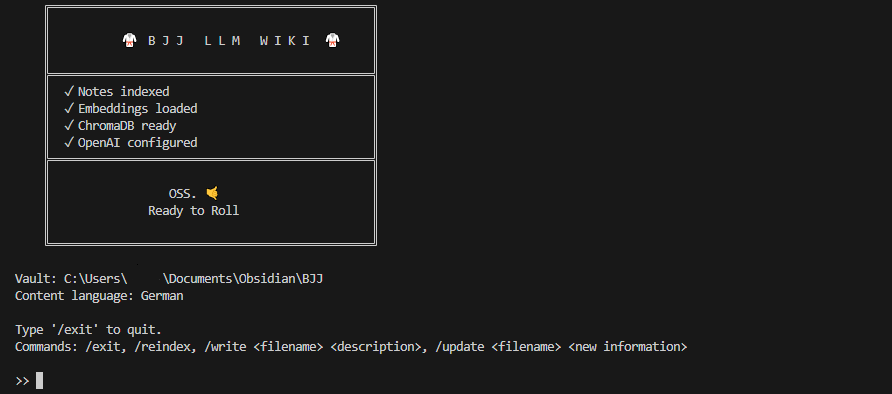
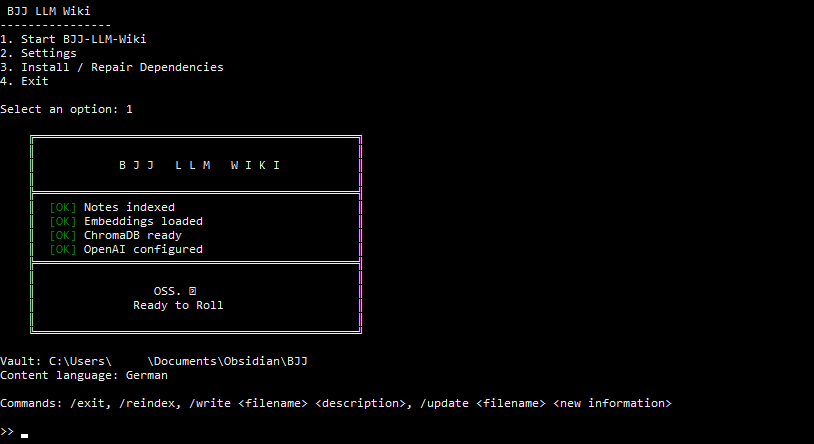
Updated Readme

Changed region(s): [[0.0, 0.0, 0.4607, 0.7614], [0.0, 0.7919, 0.8292, 0.9137], [0.0, 0.9442, 0.0614, 1.0]]

diff --git a/README.md b/README.md
@@ -25,15 +25,21 @@ BJJ LLM Wiki is designed to turn personal BJJ knowledge into a structured and se
 - Schema-based note updates and legacy note migration
 - Global terminology and Wiki-Linking rules
 - Canonical entity awareness using existing note titles
+- Duplicate detection before creating new notes
+- Normalized and fuzzy note-name matching
+- Deterministic validation of generated and updated notes
+- Automatic repair of known validation issues
+- LLM-assisted repair support for issues that cannot be handled deterministically
+- Safe multiline input for longer `/write` and `/update` descriptions
+- Preview and confirmation before notes are saved
 - Configurable descriptive content language
 - Configurable writer and classifier models
 - Hybrid RAG retrieval using semantic and title matching
-- Markdown/Obsidian as a portable source of truth
-- Preview and confirmation before notes are saved
-- Deterministic validation for generated and updated notes
-- CLI loading feedback during long-running LLM operations
+- Wiki-Link-aware RAG context expansion
+- Multi-stage CLI feedback during retrieval and LLM operations
 - Writer benchmark suite with deterministic regression checks
 - Provider-neutral LLM application layer
+- Markdown/Obsidian as a portable source of truth
 
 ---
 
@@ -92,8 +98,9 @@ Dependencies can also be repaired or reinstalled later through the launcher menu
 After setup, the launcher displays:
 
 ```text
-🥋 BJJ LLM Wiki
-----------------
+BJJ LLM Wiki
+------------
+
 1. Start BJJ-LLM-Wiki
 2. Settings
 3. Install / Repair Dependencies
@@ -111,36 +118,75 @@ When you exit the Wiki with `/exit`, you return to the launcher.
 | Command | Description |
 |---|---|
 | `<free text>` | Ask a question about your notes using RAG |
-| `/write <filename> <description>` | Create a structured note from user-provided BJJ knowledge |
-| `/update <filename> <new information>` | Merge new information into an existing note |
+| `/write <filename> [description]` | Create a structured note from user-provided BJJ knowledge |
+| `/update <filename> [new information]` | Merge new information into an existing note |
 | `/reindex` | Rebuild the vector index after manual vault changes |
 | `/exit` | Exit the Wiki and return to the launcher |
 
-Example:
+Short descriptions can still be supplied directly:
 
 ```text
 >> /write Rear-Naked-Choke Classic choke from back control. Wrap the arm around the neck, secure the grip and bring the elbows together.
 ```
 
-The generated note is shown as a preview before saving and must be confirmed by the user.
+For longer descriptions, omit the description from the command:
+
+```text
+>> /write Rear-Naked-Choke
+
+Describe the technique:
+Enter /done to finish or /cancel to cancel.
+
+> Start from Back-Mount with a Seatbelt.
+> The choking arm goes around the opponent's neck.
+> Secure the grip and finish by bringing the elbows together.
+> /done
+```
+
+The same multiline input is available for `/update`.
+
+Previously submitted lines are retained while entering multiline content, reducing the risk of losing an entire long description through accidental command-history navigation.
+
+Use:
+
+```text
+/done
+```
+
+to submit the multiline input, or:
+
+```text
+/cancel
+```
+
+to abort it.
+
+The generated note or update is shown as a preview before saving and must be confirmed by the user.
 
 ---
 
 ## How It Works
 
 ```text
-                         User Input
-                             │
-              ┌──────────────┴──────────────┐
-              │                             │
-         /write /update                  Question
-              │                             │
-              ▼                             ▼
-       Schema + Rules               Hybrid Retrieval
-       + Canonical Notes            Chroma + Titles
-              │                             │
-              ▼                             ▼
-          LLM Writer                  Grounded LLM
+                           User Input
+                               │
+              ┌────────────────┴────────────────┐
+              │                                 │
+        /write /update                       Question
+              │                                 │
+              ▼                                 ▼
+       Note Resolution                  Hybrid Retrieval
+    + Duplicate Matching              Semantic + Titles
+              │                                 │
+              ▼                                 ▼
+       Schema + Rules                    Wiki-Link
+     + Canonical Notes                    Expansion
+              │                                 │
+              ▼                                 ▼
+          LLM Writer                      Grounded LLM
+              │
+              ▼
+      Validation + Repair
               │
               ▼
         Markdown Vault
@@ -153,14 +199,19 @@ The generated note is shown as a preview before saving and must be confirmed by 
 
 `/write` turns user-provided BJJ knowledge into a structured Markdown note.
 
-The application:
+Before generation, existing note names are checked using normalized and fuzzy matching to reduce accidental duplicates.
 
-1. Classifies the input into a supported note type
-2. Loads the corresponding schema and global writing rules
-3. Provides existing note titles as canonical wiki entities
-4. Structures the supplied knowledge
-5. Validates the generated note against deterministic wiki rules
-6. Shows the generated note and validation warnings before saving it
+The application then:
+
+1. Checks the requested note name against existing notes
+2. Classifies the input into a supported note type
+3. Loads the corresponding schema and global writing rules
+4. Provides existing note titles as canonical wiki entities
+5. Structures the supplied knowledge
+6. Validates the generated note against deterministic wiki rules
+7. Repairs known validation issues where possible
+8. Revalidates the repaired note
+9. Shows the generated note and remaining validation warnings before saving it
 
 The writer currently supports:
 
@@ -188,9 +239,23 @@ Unsupported schema sections remain present as:
 
 `/update` works against an existing Markdown note.
 
+Note names are resolved before requesting long-form input. Normalized matching handles differences such as capitalization or hyphenation, while fuzzy matching can suggest an existing note when the supplied name contains a typo.
+
 Both the existing note and the new user input are treated as technical source material. Existing knowledge is preserved while new information is integrated into the appropriate sections.
 
 Updates use the current schema for the note type. This also allows older notes using legacy structures or headings to be migrated to the current schema while preserving their technical content.
+
+Generated updates pass through the same validation and repair pipeline before being presented to the user as a diff.
+
+### Validation and Repair
+
+Generated and updated notes are checked against deterministic wiki rules before being saved.
+
+Validation can detect known structural and Wiki-Linking problems, including forbidden generic links and invalid perspective-specific aliases.
+
+Known violations can be repaired deterministically and are then revalidated. The repair layer is separated from validation so additional repair strategies can be added without changing the writer or update workflows.
+
+The project also contains support for LLM-assisted repair for issues that cannot be resolved by deterministic rules.
 
 ### Wiki Links
 
@@ -198,20 +263,25 @@ Concrete BJJ entities are connected through Obsidian Wiki-Links:
 
 ```markdown
 [[Side-Control]]
+
 [[Mount]]
+
 [[Butterfly-Guard]]
+
 [[Armbar]]
 ```
 
 Existing note titles are supplied to the writer as canonical entities. Links to meaningful BJJ entities may also be created before the corresponding note exists, allowing the wiki to develop naturally over time.
 
+Generic classification or contextual words are not automatically treated as part of an entity name. At the same time, established technique names such as `[[Butterfly-Sweep]]` or `[[Single-Leg-Takedown]]` may legitimately contain their classification.
+
 Detailed linking and terminology behavior is defined in `app/schemas/global_rules.md`.
 
 ### Retrieval
 
-Questions are answered using hybrid retrieval.
+Questions are answered using hybrid retrieval with additional Wiki-Link-aware context expansion.
 
-**Semantic search** uses ChromaDB embeddings to find notes related to the question.
+**Semantic search** uses ChromaDB embeddings to find notes related to the meaning of the question.
 
 **Title matching** directly matches normalized note titles against the query. Matching is case- and hyphen-insensitive, so:
 
@@ -225,7 +295,13 @@ can be found from:
 side control
 ```
 
-Combining both approaches helps retrieve conceptually related notes while preventing short or sparsely written notes from being missed due to weak embeddings.
+Semantic relevance is evaluated independently from exact title matches so a direct title match does not suppress other semantically relevant notes.
+
+After the primary retrieval step, the application follows Wiki-Links from the retrieved notes and can include directly connected existing notes as additional context.
+
+For example, a question about attacks from `Side-Control` can retrieve the position itself while also providing linked submissions and related techniques to the answering LLM.
+
+The resulting context is passed to the LLM, which is instructed to answer only from the retrieved notes and state clearly when the knowledge base does not contain enough information.
 
 ---
 
@@ -240,39 +316,54 @@ CLI
 Services
  ├────► Repository ────► Markdown / Obsidian Vault
  ├────► LLM Layer ─────► LLM Provider
+ ├────► Validation / Repair
  └────► Vector Store ──► ChromaDB
 ```
 
-The main application structure is:
+The main project structure is:
 
 ```text
 LLM-BJJ-Wiki/
 │
 ├── app/
-│   ├── cli/            # Terminal interface
-│   ├── services/       # Application use cases
-│   ├── repositories/   # Markdown vault access
-│   ├── llm/            # Provider-neutral LLM access
-│   │   ├── openai/     # OpenAI implementation
-│   │   └── anthropic/  # Reserved for future provider support
-│   ├── vectorstore/    # ChromaDB and retrieval
-│   ├── schemas/        # Note schemas and global writing rules
-│   ├── config.py
-│   └── main.py
+│   ├── cli/                    # Terminal presentation layer
+│   │   ├── handlers/           # Command-specific CLI workflows
+│   │   ├── input/              # Safe multiline and interactive input
+│   │   └── output/             # Diff, validation, and status output
+│   │
+│   ├── llm/                    # Provider-neutral LLM access
+│   │   ├── openai/             # OpenAI implementation
+│   │   └── anthropic/          # Reserved for Anthropic support
+│   │
+│   ├── matching/               # Note-name normalization and fuzzy matching
+│   ├── repair/                 # Deterministic and LLM-assisted note repair
+│   ├── repositories/           # Markdown vault access
+│   ├── schemas/                # Note schemas and global writing rules
+│   ├── services/               # Application use cases
+│   ├── validation/             # Deterministic note validation
+│   │   └── lists/              # Validation rules and canonical mappings
+│   │
+│   └── vectorstore/            # ChromaDB, hybrid retrieval, and link expansion
 │
-├── example-vault/      # Empty example vault structure
-├── benchmarks/         # Writer regression benchmarks
-├── assets/
-├── .env.example
+├── assets/                     # README and project assets
+├── benchmarks/
+│   └── writer/                 # Writer regression and model benchmarks
+│
+├── example-vault/              # Example Obsidian vault structure
+├── tests/                      # Automated tests
+├── start.py                    # Setup and application launcher
 ├── requirements.txt
-├── start.py
-├── todo.md
+├── todo.md                     # Development roadmap
 └── README.md
 ```
 
 Services contain the application use cases while infrastructure-specific access is kept behind dedicated repository, LLM, and vector-store layers.
 
-The LLM layer is provider-neutral from the perspective of the application services. OpenAI is currently the implemented provider, while the structure allows additional providers to be added later.
+CLI responsibilities are separated into command handlers, input handling, and output formatting. This keeps terminal-specific behavior such as multiline input, spinners, diffs, and status messages outside the application services.
+
+Validation determines whether generated note content follows the application's rules, while the repair layer is responsible for correcting known violations and reprocessing the result.
+
+The LLM layer is provider-neutral from the perspective of the application services. OpenAI is currently the implemented provider, while the structure allows additional providers such as Anthropic to be added later.
 
 ---
 
@@ -280,7 +371,7 @@ The LLM layer is provider-neutral from the perspective of the application servic
 
 Obsidian acts as the visual frontend for the knowledge base.
 
-The application handles LLM-assisted writing, updating, retrieval, and question answering, while Obsidian provides:
+The application handles LLM-assisted writing, updating, retrieval, validation, repair, and question answering, while Obsidian provides:
 
 - browsing and manually editing notes
 - following `[[Wiki-Links]]`
@@ -342,8 +433,7 @@ The repository contains a benchmark suite for testing note generation against re
 benchmarks/
 └── writer/
     ├── cases/
-    ├── model_pricing.py
-    └── run_writer_benchmark.py
+    └── results/
 ```
 
 Benchmarks can compare writer models using identical inputs and deterministic expectations such as required or forbidden Wiki-Links.
@@ -368,7 +458,7 @@ The benchmark is intended to catch repeatable structural and Wiki-Linking errors
 
 ## Roadmap
 
-Planned improvements include smarter command routing, fuzzy note matching, duplicate detection, undo support, additional LLM providers, wiki linting, a BJJ terminology glossary, and deriving a knowledge graph from Markdown relationships.
+Planned improvements include note activity tracking, empty-note detection, smarter command routing, improved link-aware RAG ranking, undo support, additional LLM providers, wiki linting, a BJJ terminology glossary, automatic linking of existing BJJ terms, and deriving a knowledge graph from Markdown relationships.
 
 See [`todo.md`](todo.md) for the full roadmap.
 

diff --git a/todo.md b/todo.md
@@ -9,7 +9,7 @@
 - [x] Add a setup/launcher script that handles first-time configuration, settings, dependency installation, and starting the application
 - [x] Automatic validation repair: deterministically repair known Wiki-Link violations during `/write` and `/update`, revalidate afterward, and keep warnings for unresolved issues
 - [x] Duplicate check for `/write`
-- [ ] Safe long-form CLI input: prevent accidental loss of unsent `/write` and `/update` text through command-history navigation, with draft recovery or multiline input support
+- [x] Safe long-form CLI input: prevent accidental loss of unsent `/write` and `/update` text through command-history navigation, with draft recovery or multiline input support
 - [ ] Empty note detection on startup: scan the vault for empty Markdown files created through Wiki-Links, flag them as incomplete, and list them so they can be updated
 - [ ] Note activity tracking: use file metadata and/or a lightweight activity history to identify recently created and updated notes, enabling questions such as "What did I learn or document recently?"
 - [ ] Self linking fixing through linter
